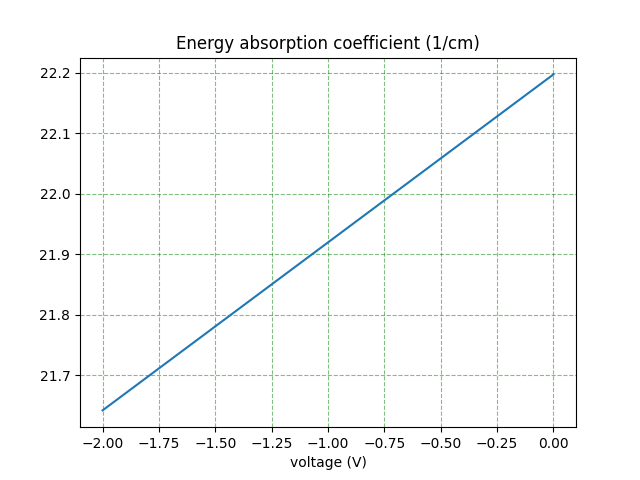
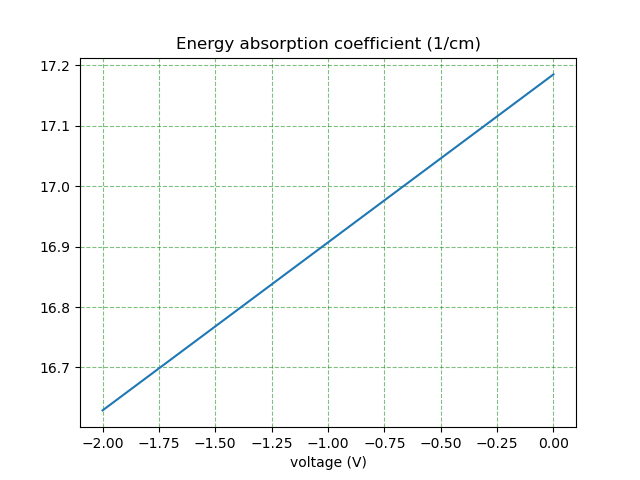
20250709

diff --git a/eye_test_design.py b/eye_test_design.py
@@ -22,7 +22,7 @@ wl_in = 1.559453431986187
 # wl_in = 1.5593-0.0008/100*delta_f
 Pin = 1.0 #mW
 ng = 3.9697242191825954
-radius = 7.5 #um
+radius = 10 #um
 cavity_length = 2*np.pi*radius 
 La_Lc_ratio = 2*np.pi*5/(2*np.pi*radius)
 mode_area = 0.22*0.5
@@ -32,7 +32,9 @@ me = 38 # pm/V
 x = dB(0.994898) # energy round trip loss in dB
 y = x*4*((radius-5)/radius)
 z = 10**(y/10) 
+print("x = ",x)
 print("z = ",z)
+print("total round trip loss = ",)
 Amp_RoundTripLoss_data = np.array([0.95223,0.95248,0.95273,0.95292,0.95305])*(z)**0.5
 print("Amp_RoundTripLoss_data = ",Amp_RoundTripLoss_data)
 a_fit = alpha_fit(RoundTripLoss=Amp_RoundTripLoss_data,La=cavity_length*La_Lc_ratio,L = cavity_length,input2 = "amp")
@@ -41,7 +43,8 @@ a_fit = alpha_fit(RoundTripLoss=Amp_RoundTripLoss_data,La=cavity_length*La_Lc_ra
 # //////////////////////////////////////////////////////////////////////////////////////////////////////////////
 # Define the coupling coefficient
 # gamma = 0.95105
-gamma = 0.94898839
+# gamma = 0.94898839
+gamma = 0.94737172
 
 # //////////////////////////////////////////////////////////////////////////////////////////////////////////////
 # //////////////////////////////////////////////////////////////////////////////////////////////////////////////
@@ -103,7 +106,7 @@ ring_mod = ring(L=cavity_length,
             band="C",
             HE = 73,
             )
-
+print("FSR = ",(ring_mod.lambda0*1000)**2/(ng*ring_mod.L*1000)," nm")
 # //////////////////////////////////////////////////////////////////////////////////////////////////////////////
 # //////////////////////////////////////////////////////////////////////////////////////////////////////////////
 # Define the heater parameters

diff --git a/ring_with_mzm.py b/ring_with_mzm.py
@@ -16,22 +16,26 @@ ng = 3.98
 
 t1 = 0.94898839
 t2 = t1
-k1 = (1-t1**2)**0.5
-k2 = (1-t2**2)**0.5
+
 L1 = 2*np.pi*radius/2
 L2 = 2*np.pi*radius/2
-L3 = 2*np.pi*radius/2 + 30
+L3 = 2*np.pi*radius/2 + 60
 q1 = 0.94898839**0.5
 q2 = 0.94898839**0.5
 q3 = 0.9**0.5
+print("t1 at critical couple condition = ",((1+q1*q3)/(1+q3/q1))**0.5)
+# t1 = ((1+q1*q3)/(1+q3/q1))**0.5
+# t2 = t1
+k1 = (1-t1**2)**0.5
+k2 = (1-t2**2)**0.5
 heater_phase = 0
 
-wl = np.linspace(1.5,1.6,10000)
+wl = np.linspace(1.5,1.6,100000)
 w = 2*np.pi*c/wl
 w0 =  2*np.pi*c/1.55
 n0 = 2.7
 n = n0 + (ng-n0)*(w-w0)/w0
-n = n0
+# n = n0
 
 phi1 = 2*np.pi/wl*n*L1
 phi2 = 2*np.pi/wl*n*L2
@@ -61,6 +65,8 @@ plt.title("Transmission of feedback ring with MZM")
 plt.legend()
 plt.grid()
 plt.show()
-
-x = (-q3*t1*t2 + q1*q2*q3)*np.exp(-1j*phi3)-k1*k2*q1
-plt.plot()
+heater_phase = np.linspace(0,2*np.pi,500)
+y = output(t1,k1,t2,k2,q1,q2,q3,-np.pi,-np.pi,heater_phase)
+ploting(heater_phase*180/np.pi,dB(abs(y)**2),x_label="heater_phase (degree)",title="transmission of feedback ring with MZM at -pi/2 phase")
+# x = (-q3*t1*t2 + q1*q2*q3)*np.exp(-1j*phi3)-k1*k2*q1
+# plt.plot()
